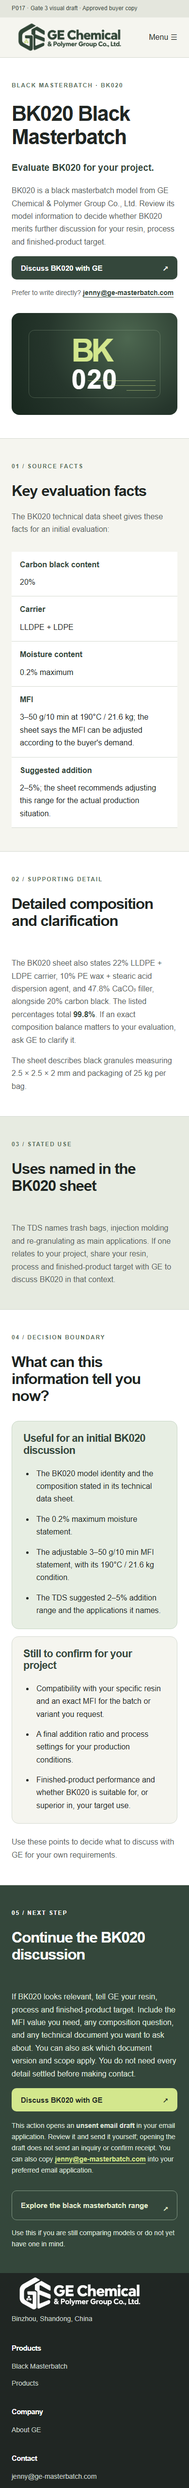
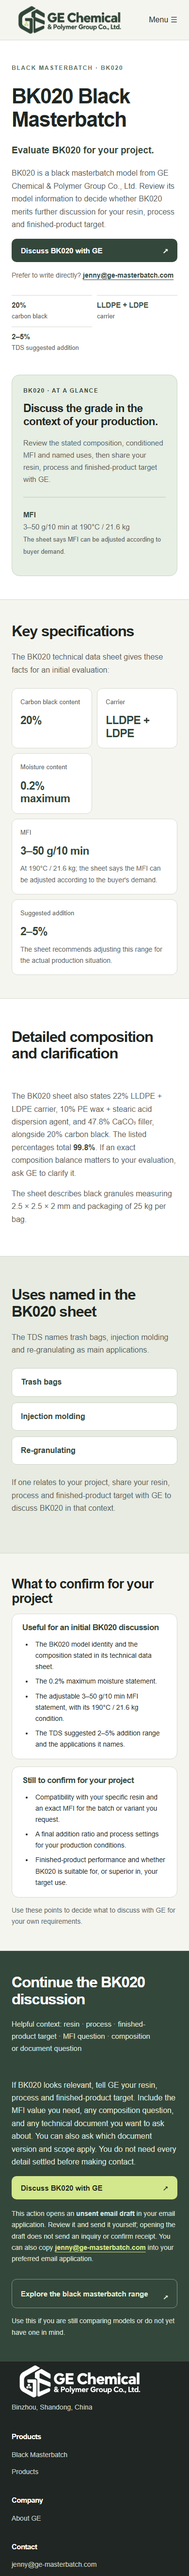
Refine P017 Gate 3 model-page visual

diff --git a/planning/visuals/P017/p017-visual.html b/planning/visuals/P017/p017-visual.html
@@ -1,11 +1,10 @@
 <!doctype html><html lang="en"><head><meta charset="utf-8"><meta name="viewport" content="width=device-width, initial-scale=1"><title>BK020 Black Masterbatch | GE Chemical</title><meta name="description" content="Explore BK020 black masterbatch: composition, moisture, MFI and TDS-stated uses. Discuss your resin, process and target with GE."><link rel="stylesheet" href="p017-visual.css"></head><body>
-<aside class="draft-note">P017 · Gate 3 visual draft · Approved buyer copy</aside>
 <header class="site-header"><div class="shell header-inner"><a class="brand" href="/" aria-label="GE Chemical homepage"><img src="../P001/assets/ge-logo-candidate.png" alt="GE Chemical &amp; Polymer Group Co., Ltd."></a><nav class="desktop-nav" aria-label="Primary navigation"><a href="/products/black-masterbatch/">Black Masterbatch</a><a href="/products/">Products</a><a href="/applications/">Applications</a><a href="/about/">About GE</a></nav><a class="header-inquiry" href="mailto:jenny@ge-masterbatch.com?subject=BK020%20evaluation%20question">Discuss BK020 with GE ↗</a><details class="mobile-menu"><summary>Menu ☰</summary><nav aria-label="Mobile navigation"><a href="/products/black-masterbatch/">Black Masterbatch</a><a href="/products/">Products</a><a href="/applications/">Applications</a><a href="/about/">About GE</a><a href="mailto:jenny@ge-masterbatch.com?subject=BK020%20evaluation%20question">Discuss BK020 with GE</a></nav></details></div></header>
 <main>
-<section class="hero module"><div class="shell hero-layout"><div><p class="eyebrow">Black masterbatch · BK020</p><h1>BK020 Black Masterbatch</h1><p class="lead"><strong>Evaluate BK020 for your project.</strong></p><p>BK020 is a black masterbatch model from GE Chemical &amp; Polymer Group Co., Ltd. Review its model information to decide whether BK020 merits further discussion for your resin, process and finished-product target.</p><div class="actions"><a class="btn primary" href="mailto:jenny@ge-masterbatch.com?subject=BK020%20evaluation%20question">Discuss BK020 with GE <span aria-hidden="true">↗</span></a></div><p class="direct">Prefer to write directly? <a href="mailto:jenny@ge-masterbatch.com">jenny@ge-masterbatch.com</a></p></div><div class="hero-art" aria-hidden="true"><div class="model-glyph">BK<span>020</span></div><div class="art-lines"><i></i><i></i><i></i></div></div></div></section>
-<section class="facts module"><div class="shell"><div class="section-top"><span class="number">01 / Source facts</span><h2>Key evaluation facts</h2><p>The BK020 technical data sheet gives these facts for an initial evaluation:</p></div><table><thead><tr><th scope="col">Fact</th><th scope="col">BK020 TDS statement</th></tr></thead><tbody><tr><th scope="row">Carbon black content</th><td>20%</td></tr><tr><th scope="row">Carrier</th><td>LLDPE + LDPE</td></tr><tr><th scope="row">Moisture content</th><td>0.2% maximum</td></tr><tr><th scope="row">MFI</th><td>3–50 g/10 min at 190°C / 21.6 kg; the sheet says the MFI can be adjusted according to the buyer's demand.</td></tr><tr><th scope="row">Suggested addition</th><td>2–5%; the sheet recommends adjusting this range for the actual production situation.</td></tr></tbody></table></div></section>
-<section class="composition module"><div class="shell section-grid"><div><span class="number">02 / Supporting detail</span><h2>Detailed composition and clarification</h2></div><div class="prose"><p>The BK020 sheet also states 22% LLDPE + LDPE carrier, 10% PE wax + stearic acid dispersion agent, and 47.8% CaCO₃ filler, alongside 20% carbon black. The listed percentages total <strong>99.8%</strong>. If an exact composition balance matters to your evaluation, ask GE to clarify it.</p><p>The sheet describes black granules measuring 2.5 × 2.5 × 2 mm and packaging of 25 kg per bag.</p></div></div></section>
-<section class="uses module"><div class="shell section-grid"><div><span class="number">03 / Stated use</span><h2>Uses named in the BK020 sheet</h2></div><div class="prose"><p>The TDS names trash bags, injection molding and re-granulating as main applications. If one relates to your project, share your resin, process and finished-product target with GE to discuss BK020 in that context.</p></div></div></section>
-<section class="decision module"><div class="shell"><span class="number">04 / Decision boundary</span><h2>What can this information tell you now?</h2><div class="decision-grid"><div class="decision-card"><h3>Useful for an initial BK020 discussion</h3><ul><li>The BK020 model identity and the composition stated in its technical data sheet.</li><li>The 0.2% maximum moisture statement.</li><li>The adjustable 3–50 g/10 min MFI statement, with its 190°C / 21.6 kg condition.</li><li>The TDS suggested 2–5% addition range and the applications it names.</li></ul></div><div class="decision-card muted-card"><h3>Still to confirm for your project</h3><ul><li>Compatibility with your specific resin and an exact MFI for the batch or variant you request.</li><li>A final addition ratio and process settings for your production conditions.</li><li>Finished-product performance and whether BK020 is suitable for, or superior in, your target use.</li></ul></div></div><p class="decision-close">Use these points to decide what to discuss with GE for your own requirements.</p></div></section>
-<section class="closing module"><div class="shell section-grid"><div><span class="number">05 / Next step</span><h2>Continue the BK020 discussion</h2></div><div class="prose"><p>If BK020 looks relevant, tell GE your resin, process and finished-product target. Include the MFI value you need, any composition question, and any technical document you want to ask about. You can also ask which document version and scope apply. You do not need every detail settled before making contact.</p><div class="actions"><a class="btn primary" href="mailto:jenny@ge-masterbatch.com?subject=BK020%20evaluation%20question">Discuss BK020 with GE <span aria-hidden="true">↗</span></a></div><p class="mailto-note">This action opens an <strong>unsent email draft</strong> in your email application. Review it and send it yourself; opening the draft does not send an inquiry or confirm receipt. You can also copy <a href="mailto:jenny@ge-masterbatch.com">jenny@ge-masterbatch.com</a> into your preferred email application.</p><p class="secondary-line"><a class="btn secondary" href="/products/black-masterbatch/">Explore the black masterbatch range <span aria-hidden="true">↗</span></a> <span>Use this if you are still comparing models or do not yet have one in mind.</span></p></div></div></section>
+<section class="hero module"><div class="shell hero-layout"><div><p class="eyebrow">Black masterbatch · BK020</p><h1>BK020 Black Masterbatch</h1><p class="lead"><strong>Evaluate BK020 for your project.</strong></p><p>BK020 is a black masterbatch model from GE Chemical &amp; Polymer Group Co., Ltd. Review its model information to decide whether BK020 merits further discussion for your resin, process and finished-product target.</p><div class="actions"><a class="btn primary" href="mailto:jenny@ge-masterbatch.com?subject=BK020%20evaluation%20question">Discuss BK020 with GE <span aria-hidden="true">↗</span></a></div><p class="direct">Prefer to write directly? <a href="mailto:jenny@ge-masterbatch.com">jenny@ge-masterbatch.com</a></p><div class="hero-facts"><span><strong>20%</strong> carbon black</span><span><strong>LLDPE + LDPE</strong> carrier</span><span><strong>2–5%</strong> TDS suggested addition</span></div></div><div class="hero-card"><p class="card-label">BK020 · At a glance</p><h2>Discuss the grade in the context of your production.</h2><p>Review the stated composition, conditioned MFI and named uses, then share your resin, process and finished-product target with GE.</p><div class="card-rule"></div><p><strong>MFI</strong><br>3–50 g/10 min at 190°C / 21.6 kg<br><small>The sheet says MFI can be adjusted according to buyer demand.</small></p></div></div></section>
+<section class="facts module"><div class="shell"><div class="section-top"><h2>Key specifications</h2><p>The BK020 technical data sheet gives these facts for an initial evaluation:</p></div><div class="spec-grid"><div class="spec"><span>Carbon black content</span><strong>20%</strong></div><div class="spec"><span>Carrier</span><strong>LLDPE + LDPE</strong></div><div class="spec"><span>Moisture content</span><strong>0.2% maximum</strong></div><div class="spec spec-wide"><span>MFI</span><strong>3–50 g/10 min</strong><p>At 190°C / 21.6 kg; the sheet says the MFI can be adjusted according to the buyer's demand.</p></div><div class="spec spec-wide"><span>Suggested addition</span><strong>2–5%</strong><p>The sheet recommends adjusting this range for the actual production situation.</p></div></div></div></section>
+<section class="composition module"><div class="shell section-grid"><div><h2>Detailed composition and clarification</h2></div><div class="prose"><p>The BK020 sheet also states 22% LLDPE + LDPE carrier, 10% PE wax + stearic acid dispersion agent, and 47.8% CaCO₃ filler, alongside 20% carbon black. The listed percentages total <strong>99.8%</strong>. If an exact composition balance matters to your evaluation, ask GE to clarify it.</p><p>The sheet describes black granules measuring 2.5 × 2.5 × 2 mm and packaging of 25 kg per bag.</p></div></div></section>
+<section class="uses module"><div class="shell"><h2>Uses named in the BK020 sheet</h2><p>The TDS names trash bags, injection molding and re-granulating as main applications.</p><div class="use-grid"><div>Trash bags</div><div>Injection molding</div><div>Re-granulating</div></div><p>If one relates to your project, share your resin, process and finished-product target with GE to discuss BK020 in that context.</p></div></section>
+<section class="decision module"><div class="shell"><h2>What to confirm for your project</h2><div class="decision-grid"><div class="decision-card"><h3>Useful for an initial BK020 discussion</h3><ul><li>The BK020 model identity and the composition stated in its technical data sheet.</li><li>The 0.2% maximum moisture statement.</li><li>The adjustable 3–50 g/10 min MFI statement, with its 190°C / 21.6 kg condition.</li><li>The TDS suggested 2–5% addition range and the applications it names.</li></ul></div><div class="decision-card muted-card"><h3>Still to confirm for your project</h3><ul><li>Compatibility with your specific resin and an exact MFI for the batch or variant you request.</li><li>A final addition ratio and process settings for your production conditions.</li><li>Finished-product performance and whether BK020 is suitable for, or superior in, your target use.</li></ul></div></div><p class="decision-close">Use these points to decide what to discuss with GE for your own requirements.</p></div></section>
+<section class="closing module"><div class="shell section-grid"><div><h2>Continue the BK020 discussion</h2><p class="contact-hint">Helpful context: resin · process · finished-product target · MFI question · composition or document question</p></div><div class="prose"><p>If BK020 looks relevant, tell GE your resin, process and finished-product target. Include the MFI value you need, any composition question, and any technical document you want to ask about. You can also ask which document version and scope apply. You do not need every detail settled before making contact.</p><div class="actions"><a class="btn primary" href="mailto:jenny@ge-masterbatch.com?subject=BK020%20evaluation%20question">Discuss BK020 with GE <span aria-hidden="true">↗</span></a></div><p class="mailto-note">This action opens an <strong>unsent email draft</strong> in your email application. Review it and send it yourself; opening the draft does not send an inquiry or confirm receipt. You can also copy <a href="mailto:jenny@ge-masterbatch.com">jenny@ge-masterbatch.com</a> into your preferred email application.</p><p class="secondary-line"><a class="btn secondary" href="/products/black-masterbatch/">Explore the black masterbatch range <span aria-hidden="true">↗</span></a> <span>Use this if you are still comparing models or do not yet have one in mind.</span></p></div></div></section>
 </main><footer class="site-footer"><div class="shell footer-grid"><div class="footer-identity"><a class="brand" href="/" aria-label="GE Chemical homepage"><img src="../P001/assets/ge-logo-candidate.png" alt="GE Chemical &amp; Polymer Group Co., Ltd."></a><p>Binzhou, Shandong, China</p></div><div><h3>Products</h3><a href="/products/black-masterbatch/">Black Masterbatch</a><a href="/products/">Products</a></div><div><h3>Company</h3><a href="/about/">About GE</a></div><div><h3>Contact</h3><a href="mailto:jenny@ge-masterbatch.com">jenny@ge-masterbatch.com</a></div></div></footer></body></html>

diff --git a/planning/visuals/P017/p017-visual.css b/planning/visuals/P017/p017-visual.css
@@ -4,3 +4,9 @@
 @media(max-width:760px){.hero-layout,.section-grid,.decision-grid{grid-template-columns:1fr}.hero-art{height:240px;max-width:540px}.decision-grid{gap:15px}table,thead,tbody,tr,th,td{display:block}thead{display:none}tbody tr{display:grid;grid-template-columns:1fr 1.4fr;gap:10px;background:#fff;border-bottom:1px solid var(--line)}tbody th,tbody td{width:auto;border:0;padding:15px 12px}.secondary-line{display:block}.secondary-line span{display:block;margin-top:15px}}
 @media(max-width:600px){body{font-size:16px}.draft-note{text-align:left;padding-left:24px}.shell{padding:0 24px}.header-inner{height:82px}.brand{width:238px;height:68px}.mobile-menu nav{left:24px;right:24px}.module>.shell{padding-top:48px;padding-bottom:48px}h1{font-size:43px}h2{font-size:31px}.lead{font-size:19px}.hero-art{height:210px}.model-glyph{font-size:65px}.model-glyph span{font-size:55px}.decision-card{padding:23px}.footer-grid{grid-template-columns:1fr;gap:15px}.footer-identity .brand{width:280px;height:83px}.actions .btn,.secondary-line .btn{width:100%}tbody tr{grid-template-columns:1fr}tbody th{padding:14px 17px 0}tbody td{padding:0 17px 15px;overflow-wrap:anywhere}}
 @media(max-width:360px){h1{font-size:38px}.brand{width:190px;height:56px}}@media(prefers-reduced-motion:reduce){html{scroll-behavior:auto}}
+.hero-layout{grid-template-columns:1.2fr .8fr;gap:44px;min-height:550px}.hero-card{background:#e7eee3;border:1px solid #c8d6c5;border-radius:16px;padding:34px}.hero-card .card-label{color:var(--green);font-size:12px;text-transform:uppercase;letter-spacing:.12em;font-weight:700}.hero-card h2{font-size:28px;line-height:1.17;margin:0 0 20px}.hero-card p{font-size:15px}.hero-card strong{color:var(--green)}.hero-card small{font-size:13px;color:var(--muted)}.card-rule{border-top:1px solid #b9ccb7;margin:24px 0}.hero-facts{display:grid;grid-template-columns:1fr 1fr;gap:10px;margin-top:28px;max-width:600px}.hero-facts span{display:block;border-top:1px solid var(--line);padding-top:8px;color:var(--muted);font-size:13px}.hero-facts strong{color:var(--green);font-size:15px}.spec-grid{display:grid;grid-template-columns:repeat(3,1fr);gap:14px;margin-top:24px}.spec{background:#fff;border:1px solid var(--line);border-radius:12px;padding:22px;min-height:120px}.spec span{display:block;color:var(--muted);font-size:13px;margin-bottom:14px}.spec strong{display:block;color:var(--green);font-size:29px;line-height:1.15;letter-spacing:-.03em}.spec p{font-size:14px;margin:12px 0 0}.spec-wide{grid-column:span 1}.spec-wide strong{font-size:26px}.composition .module,.uses .module{padding:0}.composition>.shell,.uses>.shell,.decision>.shell{padding-top:62px;padding-bottom:62px}.use-grid{display:grid;grid-template-columns:repeat(3,1fr);gap:12px;margin:24px 0}.use-grid div{padding:20px 22px;border-radius:10px;background:#fff;border:1px solid #cad5c5;color:var(--green);font-weight:700}.decision{background:var(--paper)}.decision-card{padding:23px;background:#fff;border-color:var(--line)}.decision-card h3{font-size:19px}.decision-card li{font-size:15px;margin-bottom:10px}.decision-grid{margin-top:23px}.decision-close{font-size:15px}.contact-hint{font-size:15px;color:#dce6d6;max-width:300px}
+@media(max-width:1000px){.hero-layout{min-height:0}.hero-card{padding:25px}.hero-card h2{font-size:24px}.spec-grid{grid-template-columns:repeat(2,1fr)}.spec-wide{grid-column:auto}}
+@media(max-width:760px){.hero-layout{grid-template-columns:1fr}.hero-card{max-width:560px}.use-grid{grid-template-columns:1fr 1fr}}
+@media(max-width:600px){.hero-facts{grid-template-columns:1fr 1fr}.hero-facts strong{display:block}.spec-grid{grid-template-columns:1fr 1fr;gap:10px}.spec{padding:17px;min-height:110px}.spec strong,.spec-wide strong{font-size:23px;overflow-wrap:anywhere}.spec:nth-child(2){grid-column:auto}.spec-wide{grid-column:span 2}.use-grid{grid-template-columns:1fr}.use-grid div{padding:15px 18px}.hero-card{padding:23px}.hero-card h2{font-size:23px}}
+.decision>.shell{padding-top:48px;padding-bottom:48px}.decision h2{font-size:30px;margin-bottom:16px}.decision-grid{margin-top:0}.decision-card{padding:18px 21px}.decision-card h3{font-size:17px;margin-bottom:14px}.decision-card li{font-size:14px;margin-bottom:7px}.decision-close{font-size:14px;margin-top:15px}.hero-facts{grid-template-columns:repeat(3,1fr)}
+@media(max-width:600px){.hero-facts{grid-template-columns:1fr 1fr}.decision h2{font-size:27px}}
